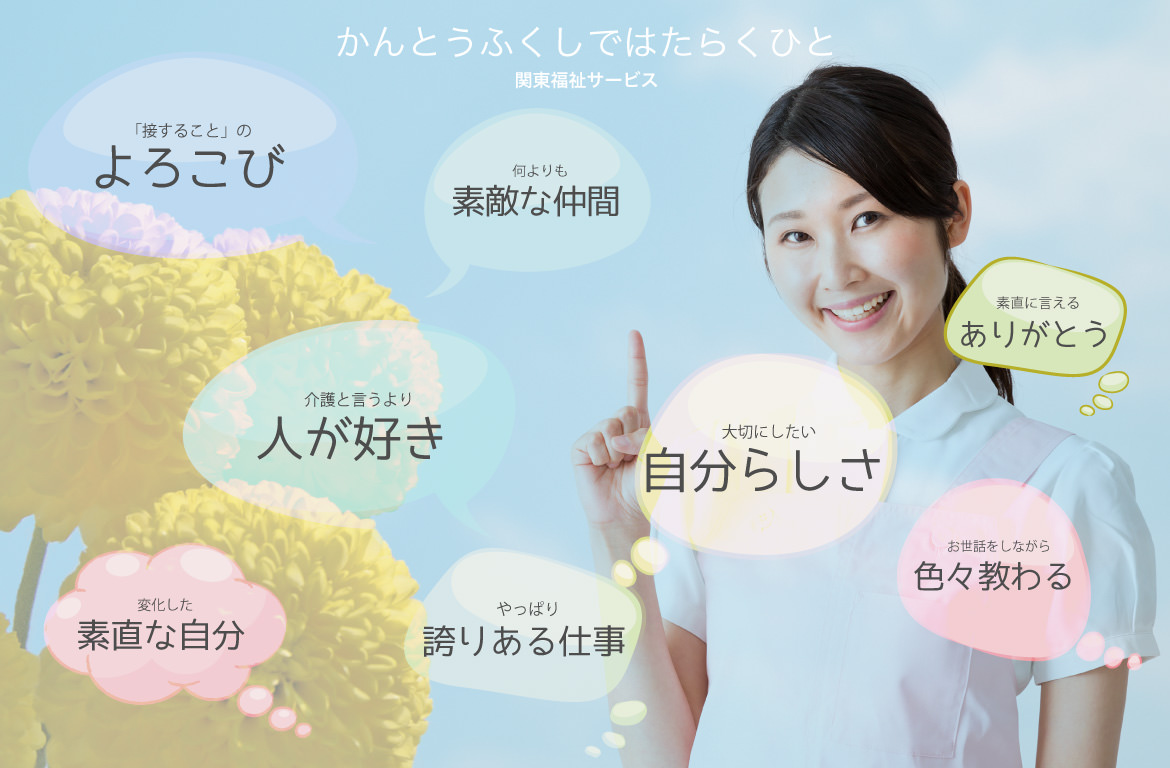
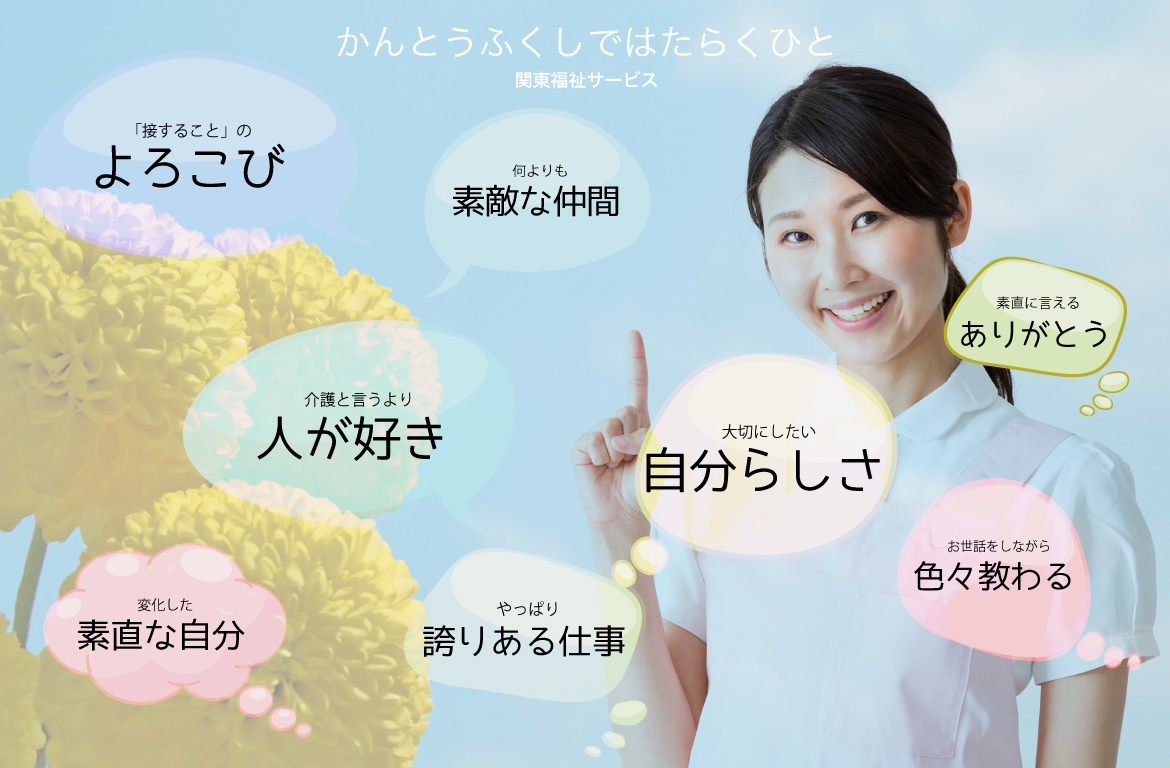
[FIX]画像修正

diff --git a/recruit/index.html b/recruit/index.html
@@ -121,7 +121,8 @@
 		</div>
 	</div>
 	<div class="row">
-		<div class="col-xs-12"><img class="img-responsive retina" src="images/saiyou_voice.jpg" alt="かんとうふくしではたらくひと　関東福祉サービス"></div>
+		<div class="col-xs-12 sm_non"><img class="img-responsive retina" src="images/saiyou_voice.jpg" alt="かんとうふくしではたらくひと　関東福祉サービス"></div>
+		<div class="col-xs-12 pc_non"><img class="img-responsive retina" src="images/saiyou_voice_sm.jpg" alt="かんとうふくしではたらくひと　関東福祉サービス"></div>
 		<div class="col-xs-12 top_margin20 sm_non">
 			<img class="img-responsive retina" src="images/saiyou_message_back.jpg" alt="採用担当者からのメッセージ">
 		</div>
